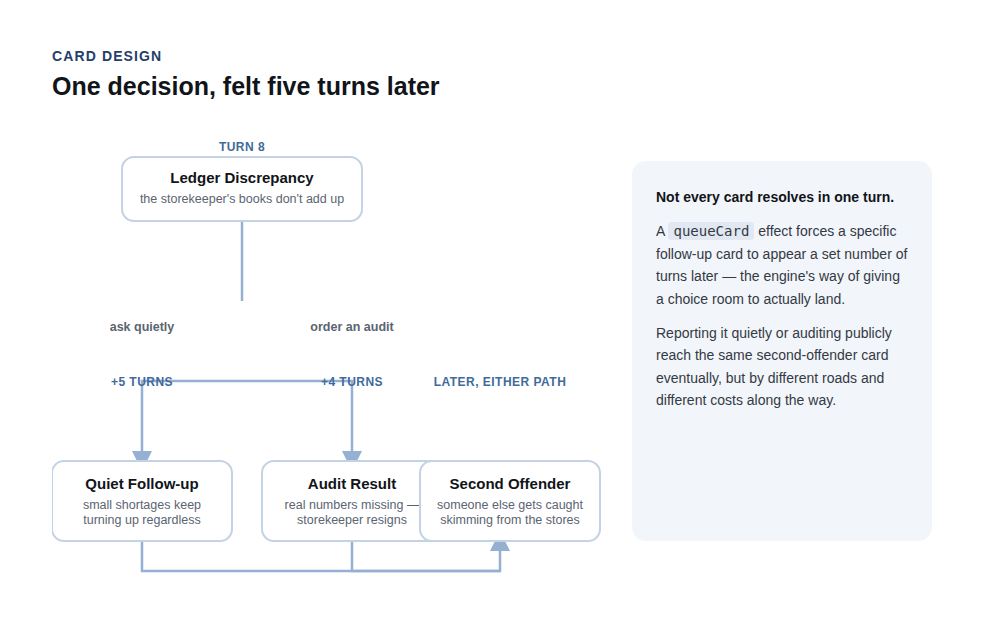
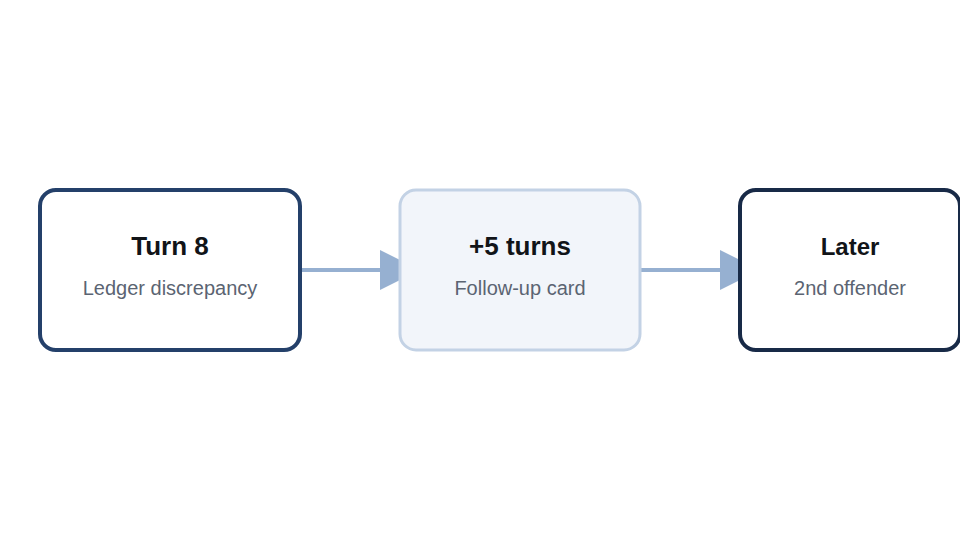
Fix crushed chart images and add a QuORuM subtitle
Both charts in "What makes a choice matter?" were built at a 3:4/wide
canvas and displayed in a 16:9 grid slot, so object-cover was cropping
out most of the content (the balance curve lost its labels, the card-
chain diagram's text was unreadably small). Rebuilt both natively at
960x540 with far less chrome — bare line + two endpoint labels for the
balance curve, three big boxes for the card chain — checked legible at
the actual ~330px display width, not just full size.

Also gave the project a subtitle, matching ReelCast's "— Prompt to
Published" pattern: "QuORuM — Four Numbers, Ninety Days", naming the
game's two core mechanics (the four meters, the 90-day term) the same
way ReelCast's subtitle names its pipeline.

Claude-Session: https://claude.ai/code/session_01WhJbtzPMmwe9yLUUh72zaQ

diff --git a/src/data/resumeData.js b/src/data/resumeData.js
@@ -292,7 +292,7 @@ export const projects = [
   },
   {
     id: "quorum",
-    name: "QuORuM",
+    name: "QuORuM — Four Numbers, Ninety Days",
     subtitle: "Personal Project",
     blurb:
       "A Reigns-style swipe-card survival game about running a snowbound refugee camp's committee — dark bureaucratic comedy sliding into folk horror.",
@@ -300,7 +300,7 @@ export const projects = [
     demoType: "video",
     repoUrl: "https://github.com/kaitidfun/QuORuM",
     details: {
-      heading: "QuORuM",
+      heading: "QuORuM — Four Numbers, Ninety Days",
       problem:
         "Most Reigns-style card games settle for one tone — usually dry political satire — and treat the card draw as a flat, even shuffle with nothing steering what shows up when.",
       description:
